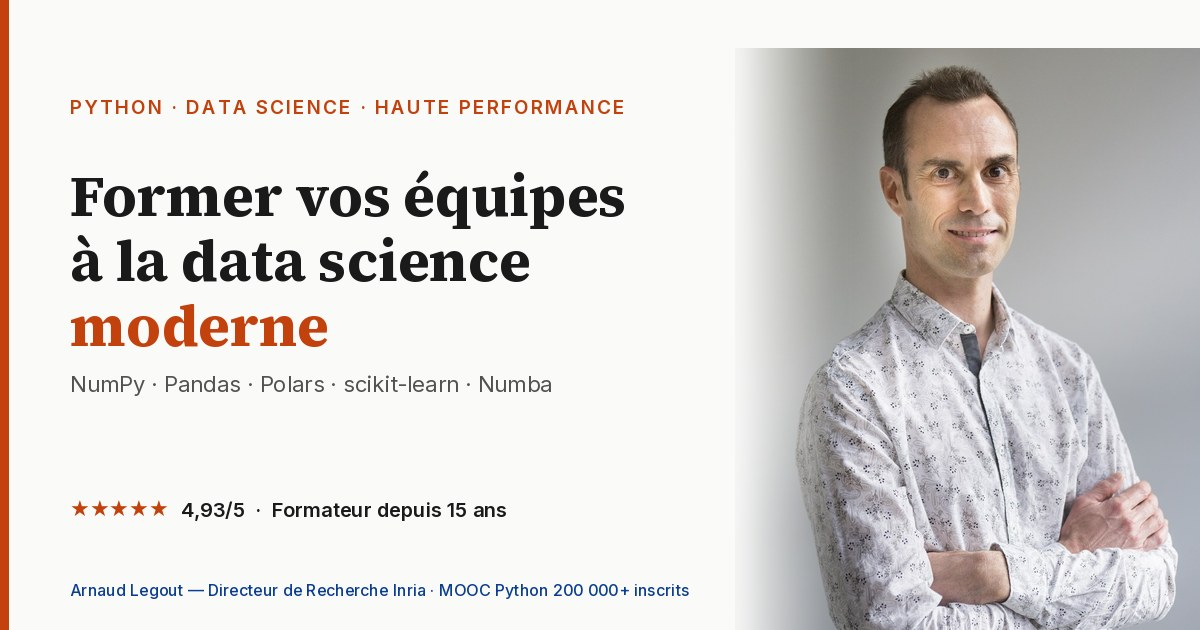
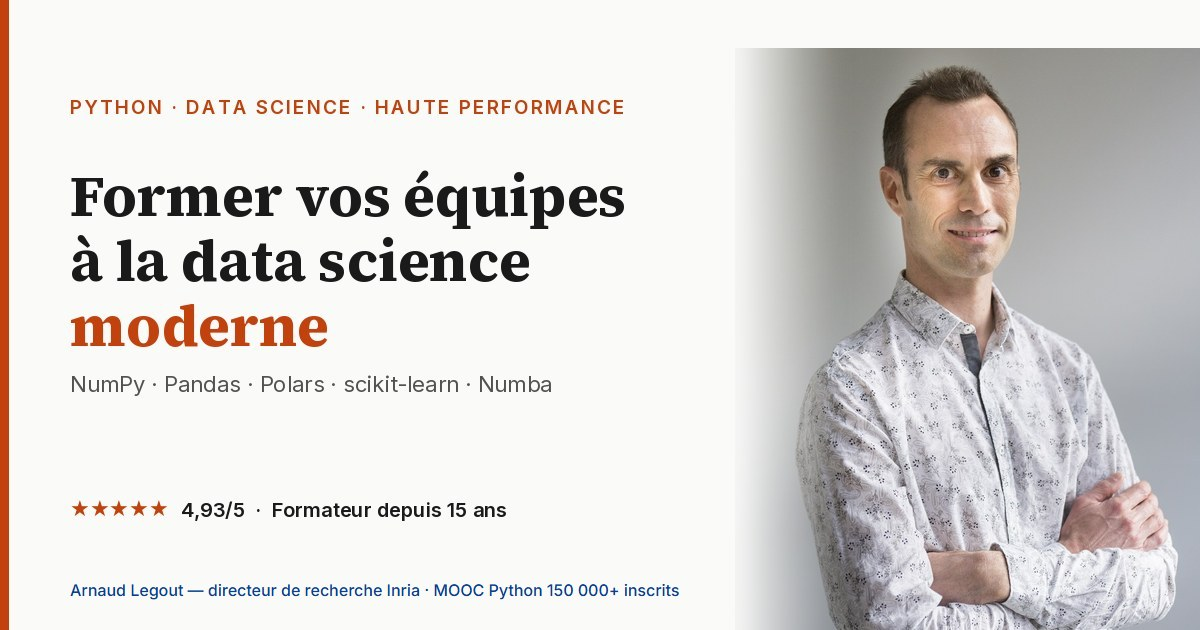
Update MOOC Python enrollment figures to reflect current statistics

Changed region(s): [[0.0617, 0.9048, 0.5858, 0.9651]]

diff --git a/a-propos.html b/a-propos.html
@@ -4,7 +4,7 @@
   <meta charset="UTF-8">
   <meta name="viewport" content="width=device-width, initial-scale=1.0">
   <title>Arnaud Legout — directeur de recherche Inria, formateur Python</title>
-  <meta name="description" content="Directeur de recherche Inria, formateur Python depuis 2011. Co-créateur du MOOC Python FUN, plus de 200 000 inscrits. Travaux : Twitter, BitTorrent, Bitcoin.">
+  <meta name="description" content="Directeur de recherche Inria, formateur Python depuis 2011. Co-créateur du MOOC Python FUN, plus de 150 000 inscrits. Travaux : Twitter, BitTorrent, Bitcoin.">
     <meta name="robots" content="index, follow">
   <link rel="canonical" href="https://formation.arnaudlegout.fr/a-propos.html">
   <link rel="sitemap" type="application/xml" href="sitemap.xml">
@@ -17,7 +17,7 @@
   <meta property="og:locale" content="fr_FR">
   <meta property="og:site_name" content="Arnaud Legout — Formations Python data science">
   <meta property="og:title" content="Arnaud Legout — directeur de recherche Inria, formateur Python depuis 2011">
-  <meta property="og:description" content="Directeur de recherche Inria, formateur Python depuis 2011. Co-créateur du MOOC Python FUN, plus de 200 000 inscrits. Travaux : Twitter, BitTorrent, Bitcoin.">
+  <meta property="og:description" content="Directeur de recherche Inria, formateur Python depuis 2011. Co-créateur du MOOC Python FUN, plus de 150 000 inscrits. Travaux : Twitter, BitTorrent, Bitcoin.">
   <meta property="og:image" content="https://formation.arnaudlegout.fr/assets/images/photo-arnaud-legout.jpg">
   <meta property="og:image:width" content="400">
   <meta property="og:image:height" content="520">
@@ -26,7 +26,7 @@
   <!-- Twitter Card -->
   <meta name="twitter:card" content="summary">
   <meta name="twitter:title" content="Arnaud Legout — directeur de recherche Inria, formateur Python depuis 2011">
-  <meta name="twitter:description" content="Directeur de recherche Inria, formateur Python depuis 2011. Co-créateur du MOOC Python FUN, plus de 200 000 inscrits. Travaux : Twitter, BitTorrent, Bitcoin.">
+  <meta name="twitter:description" content="Directeur de recherche Inria, formateur Python depuis 2011. Co-créateur du MOOC Python FUN, plus de 150 000 inscrits. Travaux : Twitter, BitTorrent, Bitcoin.">
   <meta name="twitter:image" content="https://formation.arnaudlegout.fr/assets/images/photo-arnaud-legout.jpg">
 <link rel="icon" type="image/svg+xml" href="assets/favicon.svg">
   <link rel="preload" href="assets/fonts/inter-400.woff2" as="font" type="font/woff2" crossorigin>
@@ -49,7 +49,7 @@
       },
       "url": "https://formation.arnaudlegout.fr/a-propos.html",
       "image": "https://formation.arnaudlegout.fr/assets/images/photo-arnaud-legout.jpg",
-      "description": "Directeur de recherche à Inria, formateur Python depuis 2011. Co-créateur du MOOC Python sur la plateforme FUN (200 000+ inscrits). Travaux de recherche sur les systèmes distribués, les mesures Internet et l'analyse de très grands volumes de données.",
+      "description": "Directeur de recherche à Inria, formateur Python depuis 2011. Co-créateur du MOOC Python sur la plateforme FUN (150 000+ inscrits). Travaux de recherche sur les systèmes distribués, les mesures Internet et l'analyse de très grands volumes de données.",
       "knowsAbout": [
         "Python",
         "Data science",
@@ -228,8 +228,8 @@
         <div class="page-section">
           <h2>Le MOOC Python sur FUN</h2>
           <p>En 2014, j'ai co-créé avec Thierry Parmentelat le premier MOOC francophone consacré à Python, hébergé sur la plateforme FUN. Une seconde version, dédiée à Python 3, a été publiée en 2017. Depuis 2019, le MOOC est ouvert en permanence à l'inscription.</p>
-          <p>Le cours a accueilli à ce jour plus de 200&nbsp;000 inscrits et a été utilisé comme support pédagogique par Sorbonne Université, CentraleSupélec et plusieurs autres établissements.</p>
-          <p><a href="https://www.fun-mooc.fr/fr/cours/python-3-des-fondamentaux-aux-concepts-avances-du-langage/" target="_blank" rel="noopener noreferrer">MOOC Python 3 — des fondamentaux aux concepts avancés (FUN MOOC, 200&nbsp;000 inscrits)</a></p>
+          <p>Le cours a accueilli à ce jour plus de 150&nbsp;000 inscrits et a été utilisé comme support pédagogique par Sorbonne Université, CentraleSupélec et plusieurs autres établissements.</p>
+          <p><a href="https://www.fun-mooc.fr/fr/cours/python-3-des-fondamentaux-aux-concepts-avances-du-langage/" target="_blank" rel="noopener noreferrer">MOOC Python 3 — des fondamentaux aux concepts avancés (FUN MOOC, 150&nbsp;000 inscrits)</a></p>
         </div>
 
         <div class="page-section">

diff --git a/index.html b/index.html
@@ -506,7 +506,7 @@
             <span class="figure-item__label">de formations professionnelles en entreprise depuis 2011</span>
           </div>
           <div class="figure-item">
-            <span class="figure-item__value">200&nbsp;000+</span>
+            <span class="figure-item__value">150&nbsp;000+</span>
             <span class="figure-item__label">inscrits au MOOC Python FUN co-créé en 2014</span>
             <span class="figure-item__note"><span class="figure-item__stars">★★★★<span
                   class="figure-item__star-half">★</span></span> <a
@@ -620,9 +620,9 @@
           </div>
 
           <div class="reason">
-            <h3>Une pédagogie rodée sur 200&nbsp;000 apprenants</h3>
+            <h3>Une pédagogie rodée sur 150&nbsp;000 apprenants</h3>
             <p>Co-créateur en 2014 avec Thierry Parmentelat du MOOC Python sur
-              la plateforme FUN, suivi par plus de 200&nbsp;000 inscrits et utilisé par
+              la plateforme FUN, suivi par plus de 150&nbsp;000 inscrits et utilisé par
               Sorbonne Université et CentraleSupélec. Les supports et la
               progression pédagogique sont éprouvés sur un public extrêmement
               varié, du débutant complet au développeur expérimenté qui souhaite

diff --git a/articles.html b/articles.html
@@ -85,7 +85,7 @@
         <div class="page-section articles-resources">
           <h2>En attendant</h2>
           <ul>
-            <li><strong><a href="https://www.fun-mooc.fr/fr/cours/python-3-des-fondamentaux-aux-concepts-avances-du-langage/" target="_blank" rel="noopener">Mon MOOC Python sur FUN</a></strong> — plus de 200&nbsp;000 inscrits depuis 2014, co-créé avec Thierry Parmentelat.</li>
+            <li><strong><a href="https://www.fun-mooc.fr/fr/cours/python-3-des-fondamentaux-aux-concepts-avances-du-langage/" target="_blank" rel="noopener">Mon MOOC Python sur FUN</a></strong> — plus de 150&nbsp;000 inscrits depuis 2014, co-créé avec Thierry Parmentelat.</li>
             <li><strong><a href="https://www-sop.inria.fr/members/Arnaud.Legout/" target="_blank" rel="noopener">Ma page de recherche Inria</a></strong> — publications et projets de recherche.</li>
           </ul>
         </div>
